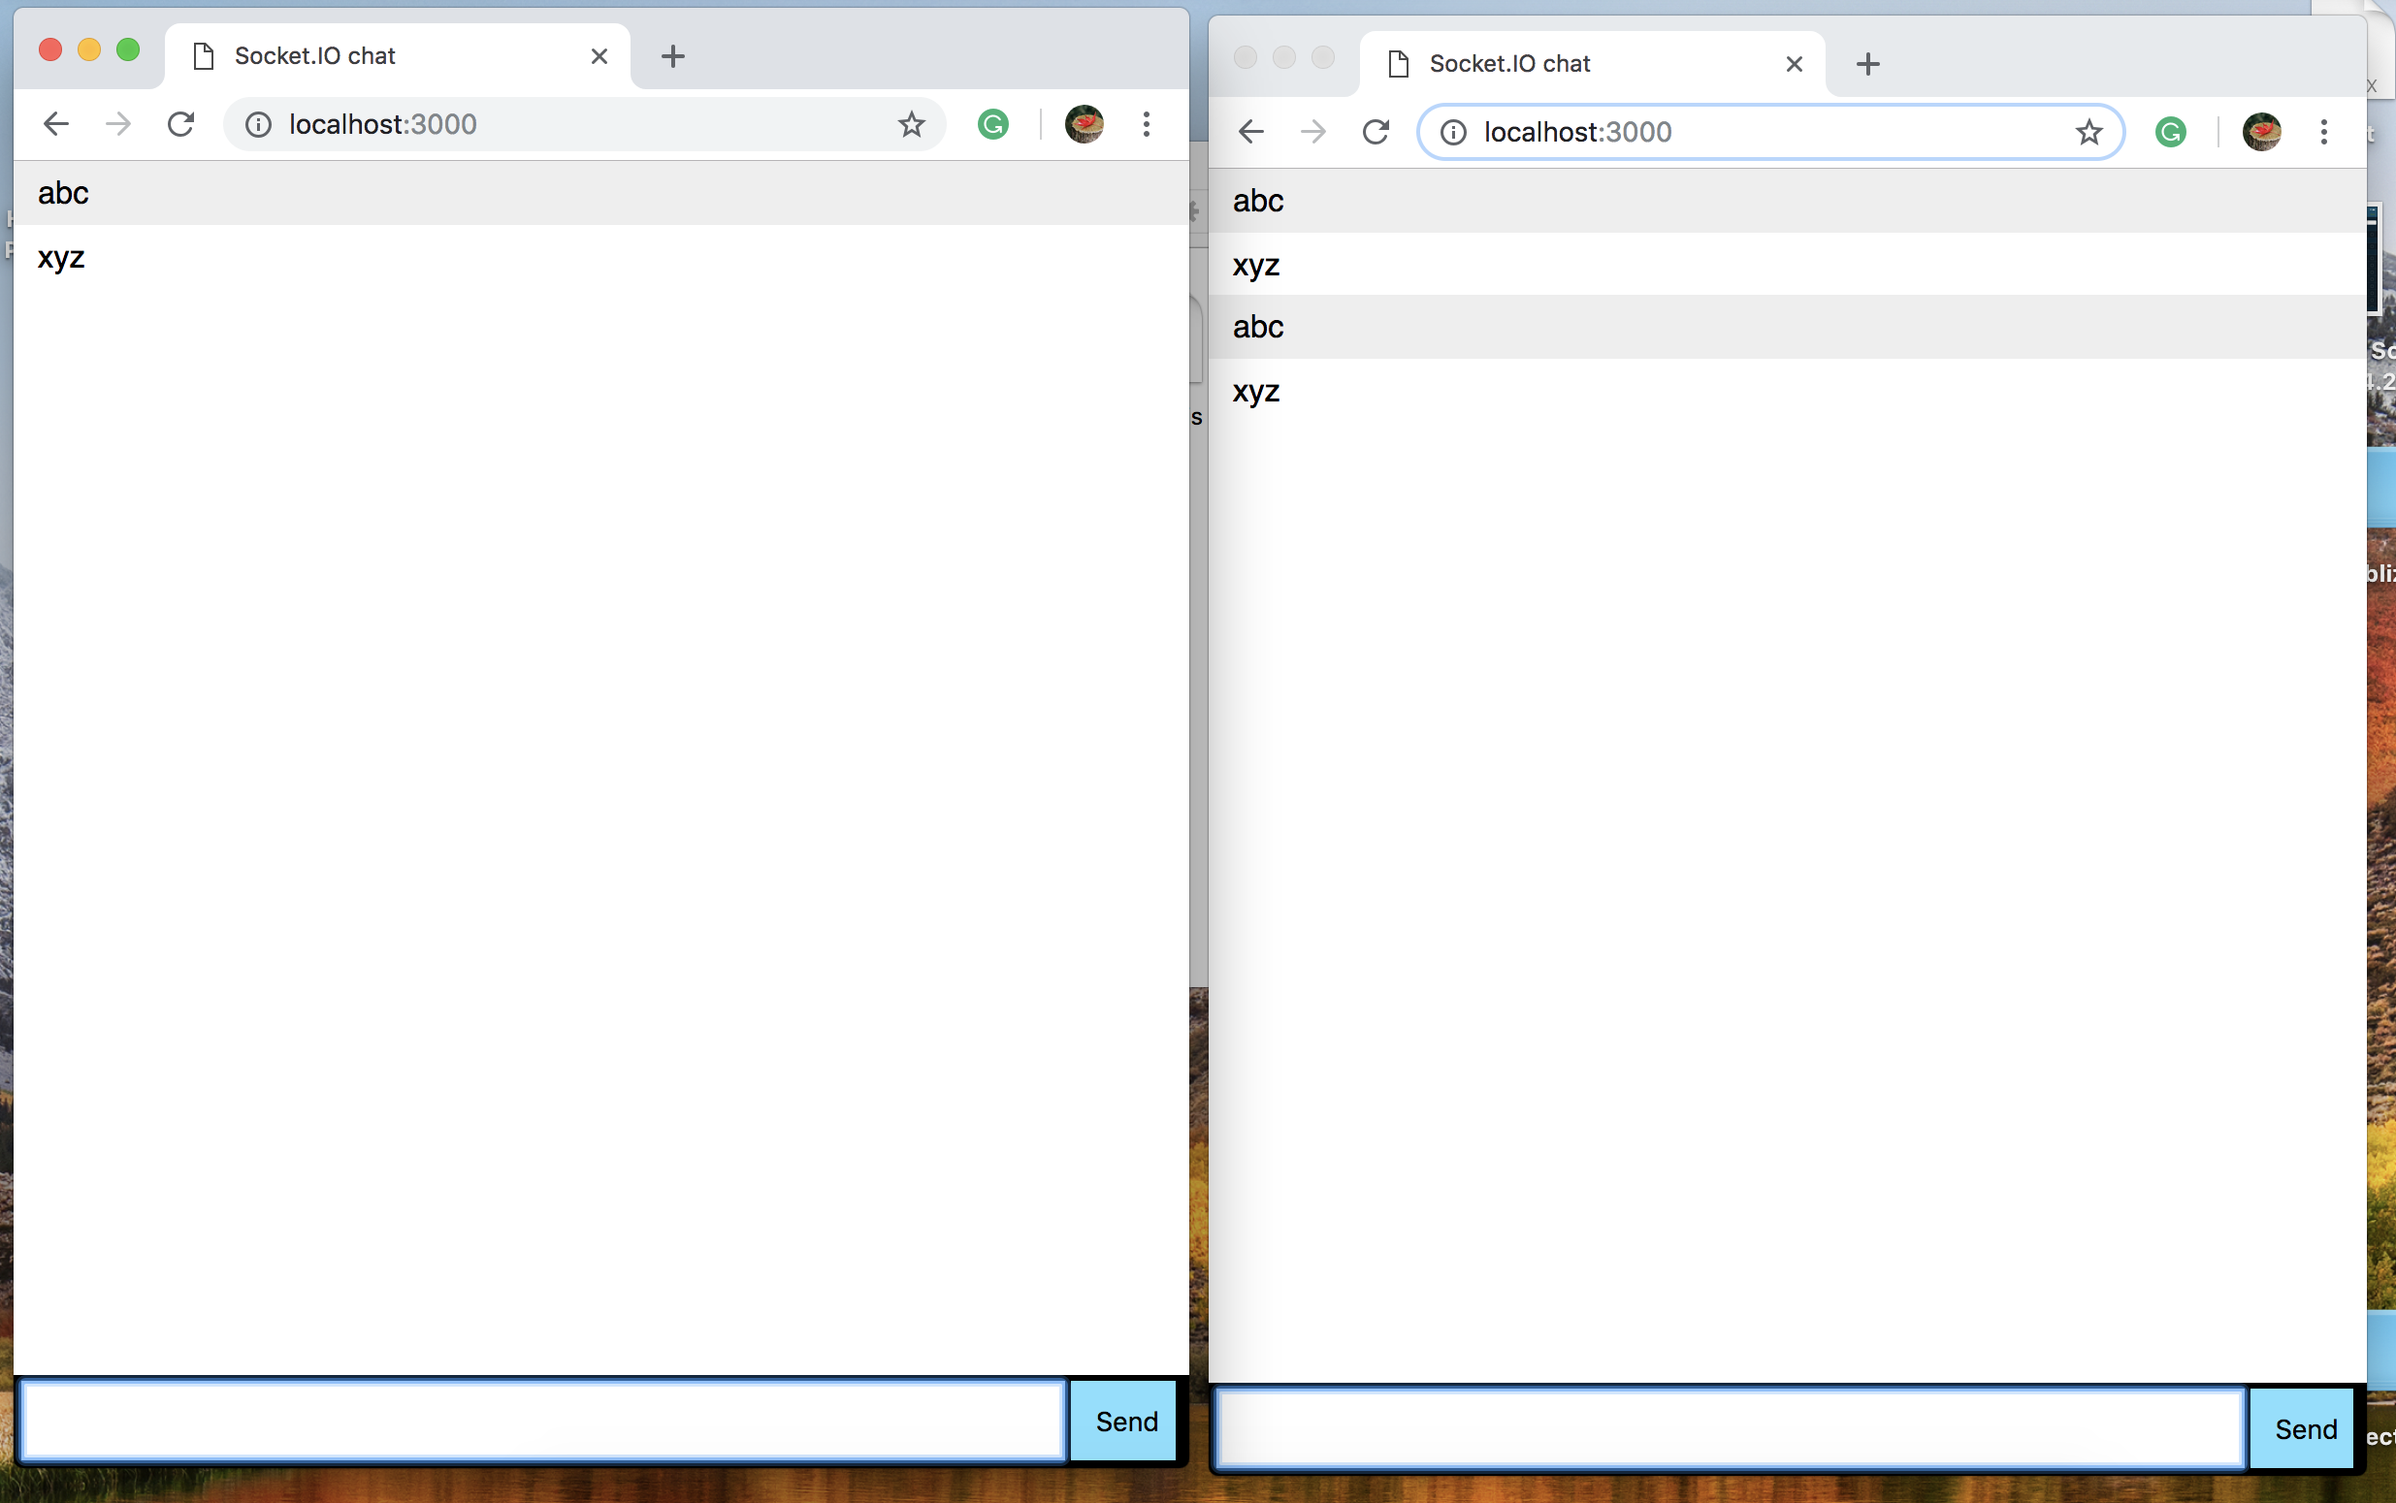
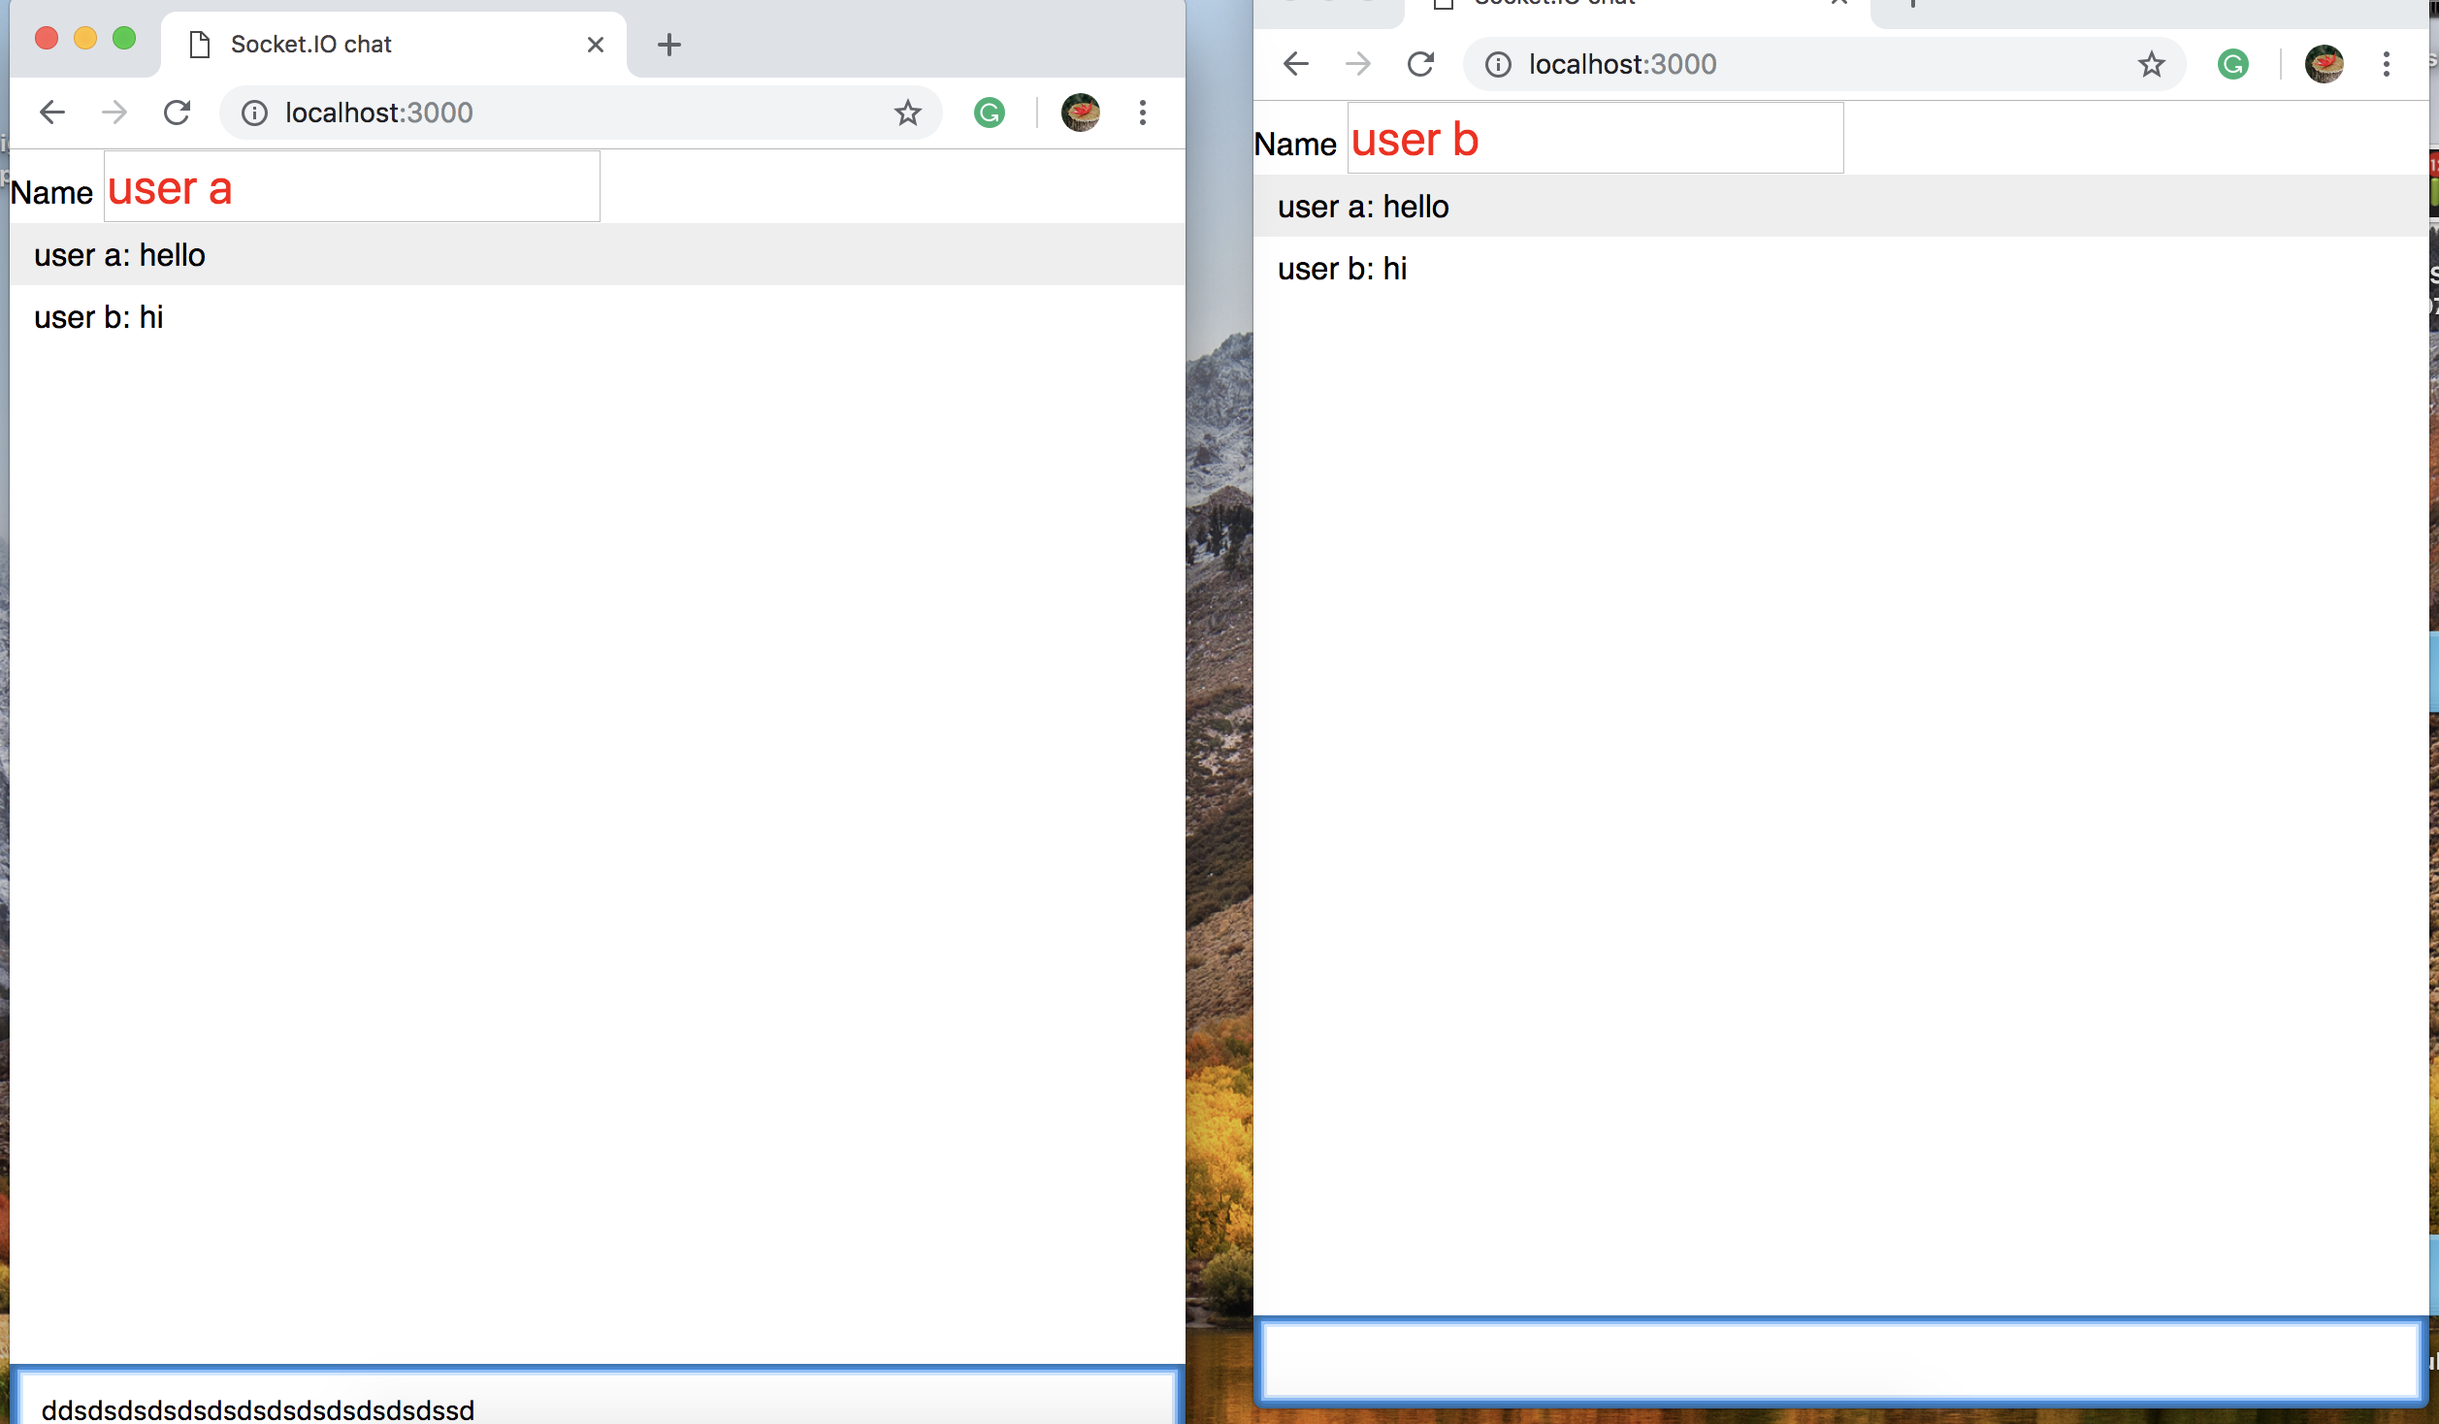
add status of chatting

Changed region(s): [[0.0, 0.0, 1.0, 1.0]]

diff --git a/src/client.html b/src/client.html
@@ -1,0 +1,108 @@
+<!doctype html>
+<html>
+
+<head>
+  <title>Socket.IO chat</title>
+  <style>
+    * {
+      margin: 0;
+      padding: 0;
+      box-sizing: border-box;
+    }
+
+    body {
+      font: 13px Helvetica, Arial;
+    }
+
+    form {
+      background: rgb(50, 110, 167);
+      padding: 3px;
+      position: fixed;
+      bottom: 0;
+      width: 100%;
+    }
+
+    form input {
+      border: 0;
+      padding: 10px;
+      width: 100%;
+      margin-right: .5%;
+    }
+
+    #messages {
+      list-style-type: none;
+      margin: 0;
+      padding: 0;
+    }
+
+    #messages li {
+      padding: 5px 10px;
+    }
+
+    #messages li:nth-child(odd) {
+      background: #eee;
+    }
+
+    #inputName {
+      color: red;
+      font-size: 20px;
+      height: 30px;
+    }
+  </style>
+</head>
+
+<body>
+  <label>Name</label>
+  <input id="inputName" name="Name" type="text" />
+  <ul id="messages"></ul>
+  <form>
+    <p id="sign"><i></i></p>
+    <input id="inputMes" autocomplete="off" />
+  </form>
+</body>
+
+</html>
+
+<script src="/socket.io/socket.io.js"></script>
+<script src="http://code.jquery.com/jquery-1.11.1.js"></script>
+<script>
+  var socket = io();
+  var typing = false;
+  var timeout = undefined;
+
+  function timeoutFunction() {
+    typing = false;
+    socket.emit('stop typing');
+  }
+
+  $('#inputMes').keypress(function (e) {
+    if (e.which === 13) {
+      socket.emit('send', { name: $('#inputName').val(), msg: $('#inputMes').val() });
+      $('#inputMes').val('');
+      timeoutFunction()
+      clearTimeout(timeout)
+      return false
+    }
+    else {
+      if (typing == false) {
+        typing = true
+        socket.emit('typing', { name: $('#inputName').val() });
+      } else {
+        clearTimeout(timeout);
+      }
+      timeout = setTimeout(timeoutFunction, 2000);
+    }
+  });
+
+  socket.on('send', function (data) {
+    $('#messages').append($('<li>').text(data.name + ':   ' + data.msg));
+  });
+
+  socket.on('typing', function (data) {
+    $('#sign').text(data.name + ' is typing')
+  });
+
+  socket.on('stop typing', function (data) {
+    $('#sign').text('')
+  });
+</script>

diff --git a/src/server.js b/src/server.js
@@ -8,8 +8,14 @@ app.get('/', function(req, res){
   });
 
   io.on('connection', function(socket){
-    socket.on('chat message', function(msg){
-      io.emit('chat message', msg);
+    socket.on('send', function(data){
+      io.emit('send', data);
+    });
+    socket.on('typing', function(data){
+      io.emit('typing', data);
+    });
+    socket.on('stop typing', function(data){
+      io.emit('stop typing', data);
     });
   });
 

diff --git a/README.md b/README.md
@@ -3,7 +3,7 @@
 1. Install dependencies
 `npm i`
 2. Run the local server
-`node server.js`
+`cd src && node server.js`
 3. Use brower and try
     http://localhost:3000/
 
